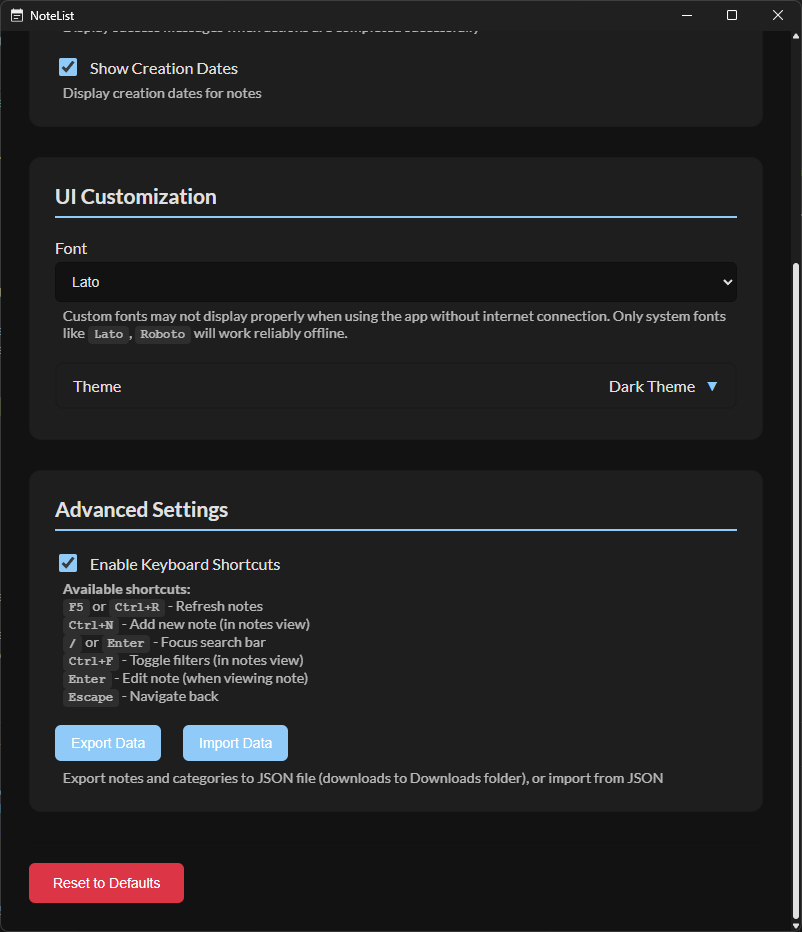
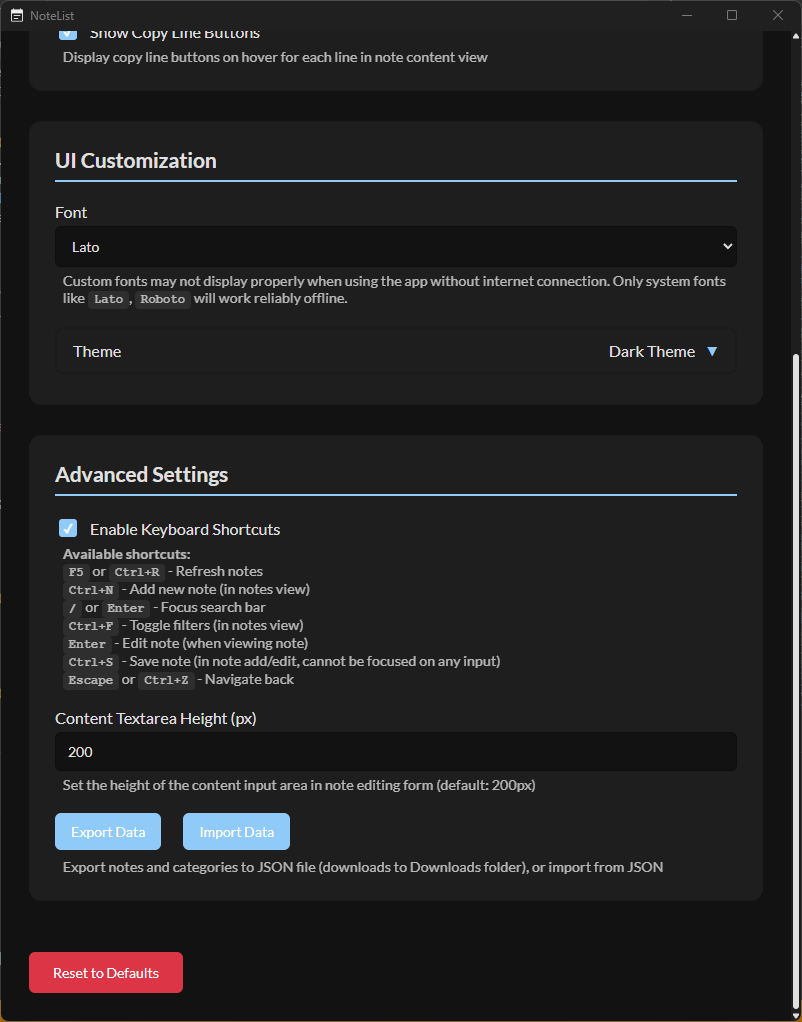
update README.md

diff --git a/README.md b/README.md
@@ -2,6 +2,24 @@
 
 <img src="README_img/icon.png" alt="Application icon" width="100">
 
+## Table of Contents
+
+- [About](#about)
+- [Technologies](#technologies)
+- [Key Features](#key-features)
+  - [📝 Note Management](#📝-note-management)
+  - [🏷 Category System](#🏷-category-system)
+  - [🔍 Advanced Filtering](#🔍-advanced-filtering)
+  - [⌨ Keyboard Shortcuts](#⌨-keyboard-shortcuts)
+  - [🎨 Theme System](#🎨-theme-system)
+  - [⚙ Advanced Settings](#⚙-advanced-settings)
+- [Screenshots](#screenshots)
+- [Data Structure](#data-structure)
+- [Data Storage](#data-storage)
+- [Installation and Setup](#installation-and-setup)
+- [Technical Features](#technical-features)
+- [License](#license)
+
 ## About
 
 NoteList is a modern desktop application for managing notes, designed with simplicity and advanced organizational features in mind. The application enables creating, editing, and categorizing notes with the ability to add images and advanced content filtering.
@@ -33,12 +51,27 @@ NoteList is a modern desktop application for managing notes, designed with simpl
 - Active filters preview
 
 ### ⌨ Keyboard Shortcuts
+
+#### Notes List
 - `F5` or `Ctrl+R` - Refresh notes
 - `Ctrl + N` - New note
 - `Ctrl + F` - Toggle category filters
 - `/` or `Enter` - Focus search field
-- `Escape` - Return to notes list
-- `Enter` - Edit note (when viewing note)
+
+#### Note View
+- `Enter` - Edit note
+- `Escape` or `Ctrl + Z` - Return to notes list
+
+#### Note Editor
+- `Ctrl + S` - Save note
+- `Escape` or `Ctrl + Z` - Return to previous view
+
+#### Category Management
+- `/` or `Enter` - Focus category search
+- `Escape` or `Ctrl + Z` - Return to notes list
+
+#### Settings
+- `Escape` or `Ctrl + Z` - Return to notes list
 
 ### 🎨 Theme System
 - 20 predefined color themes
